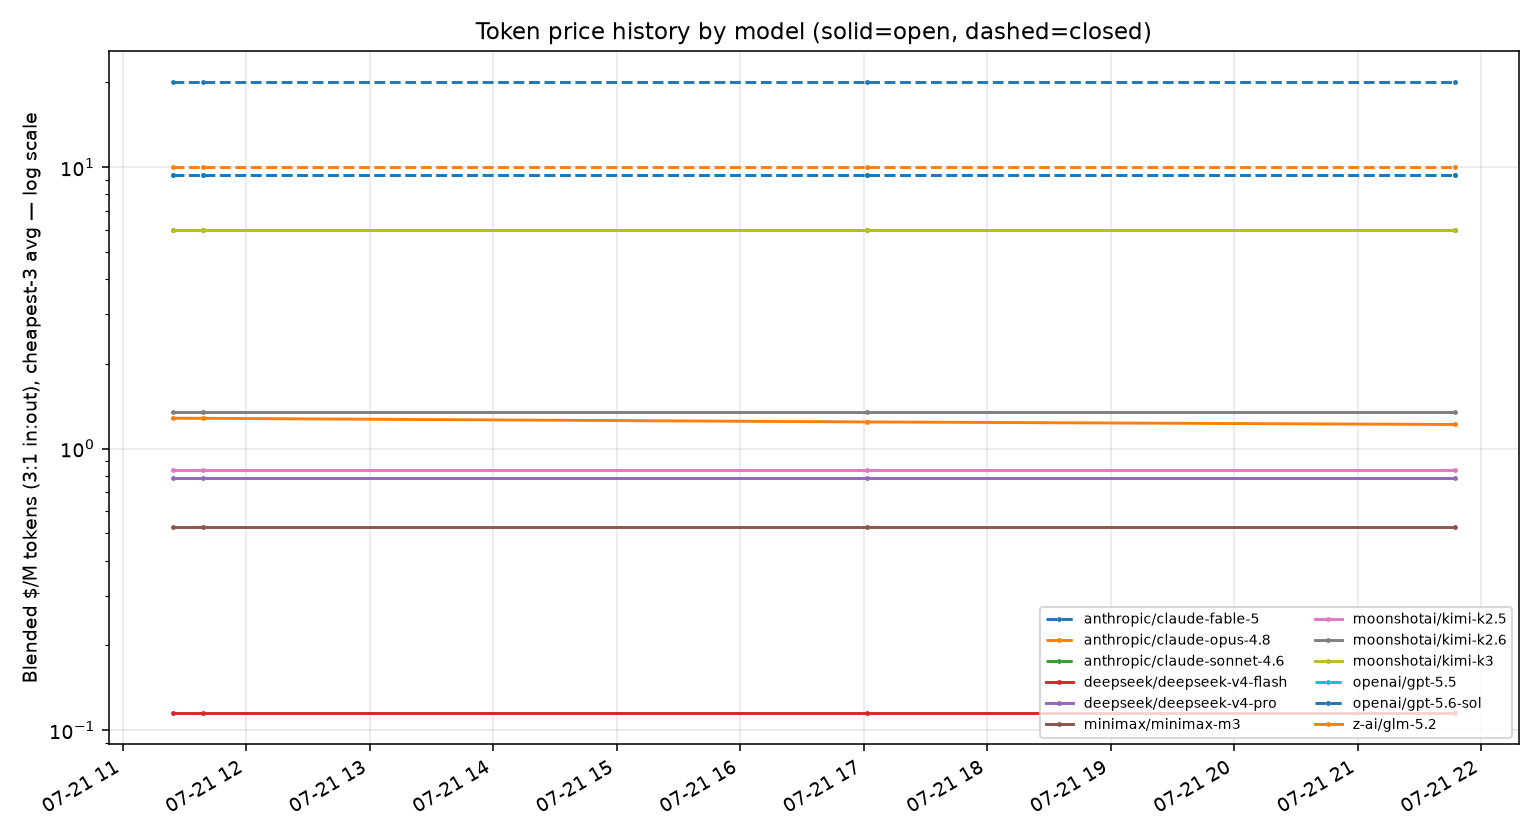
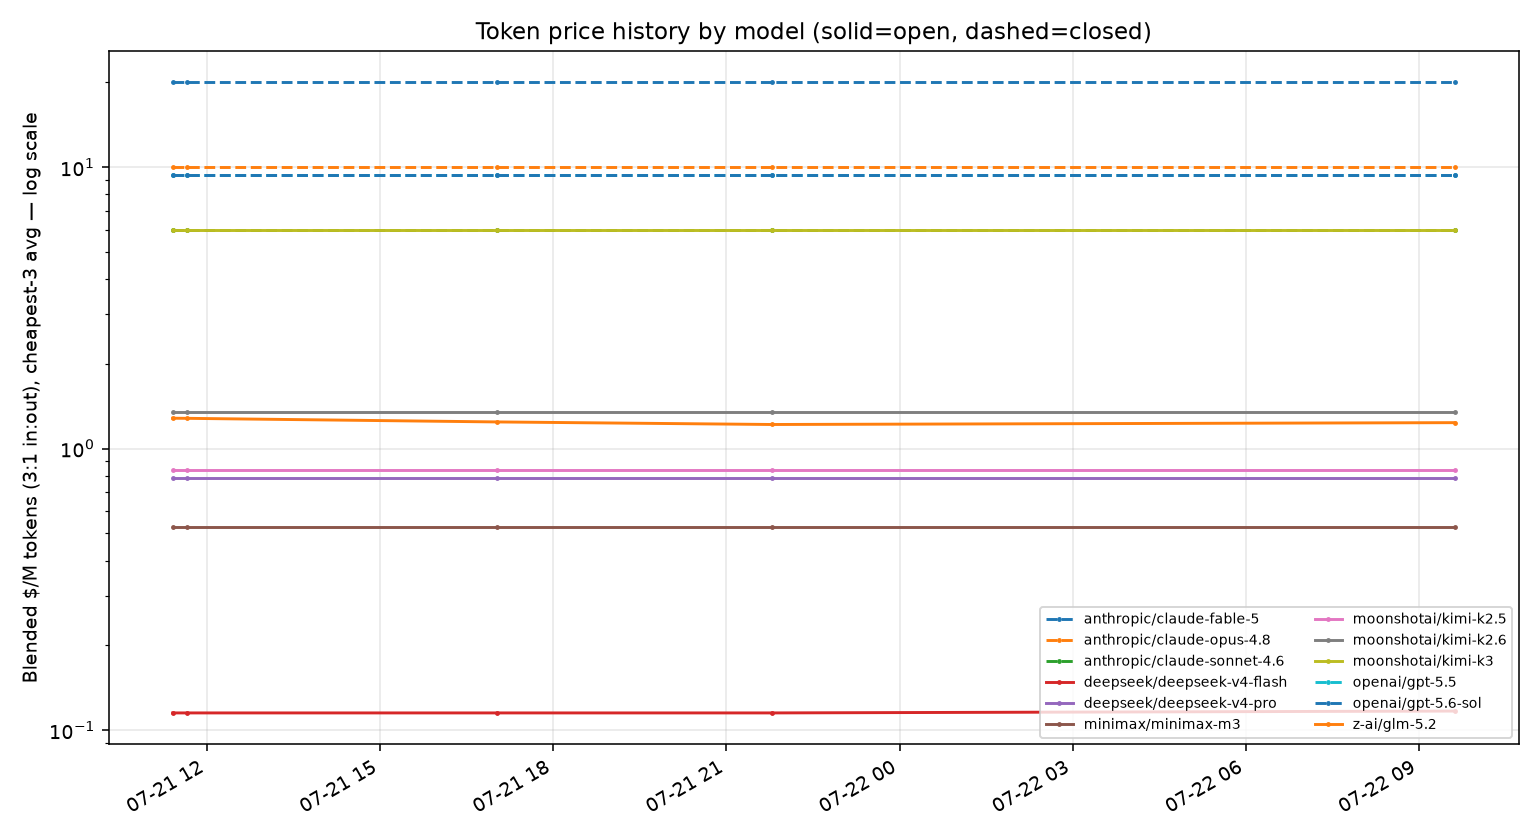
token-price-update

diff --git a/TOKEN_PRICE_SUMMARY.md b/TOKEN_PRICE_SUMMARY.md
@@ -1,5 +1,5 @@
 # Token Price Tracker — Summary
-_Last updated: 2026-07-21 21:47 UTC · latest snapshot: 2026-07-21 21:47:12 · 4 snapshots since 2026-07-21_
+_Last updated: 2026-07-22 09:37 UTC · latest snapshot: 2026-07-22 09:37:19 · 5 snapshots since 2026-07-21_
 
 ## Latest market cost per model (cheapest-3 avg, blended 3:1)
 
@@ -16,7 +16,7 @@ _Last updated: 2026-07-21 21:47 UTC · latest snapshot: 2026-07-21 21:47:12 · 4
 | moonshotai/kimi-k3 | open | $6.00 | Moonshot AI ($6.00) | 1 |
 | openai/gpt-5.5 | closed | $9.38 | OpenAI ($5.62) | 5 |
 | openai/gpt-5.6-sol | closed | $9.38 | OpenAI ($5.62) | 5 |
-| z-ai/glm-5.2 | open | $1.22 | StreamLake ($1.19) | 31 |
+| z-ai/glm-5.2 | open | $1.24 | Novita ($1.22) | 31 |
 
 **Closed/open price multiple right now: 7.7x** (closed median $11.00 vs open $1.43)
 
@@ -26,7 +26,7 @@ _Last updated: 2026-07-21 21:47 UTC · latest snapshot: 2026-07-21 21:47:12 · 4
 |---|---|---|---|
 | ASIA | 4 | 0.81 | $0.92 |
 | DECENTRALIZED | 3 | 0.95 | $1.37 |
-| CN | 20 | 0.99 | $1.23 |
+| CN | 20 | 0.99 | $1.24 |
 | UNKNOWN | 54 | 1.00 | $1.39 |
 | US | 23 | 1.00 | $1.71 |
 